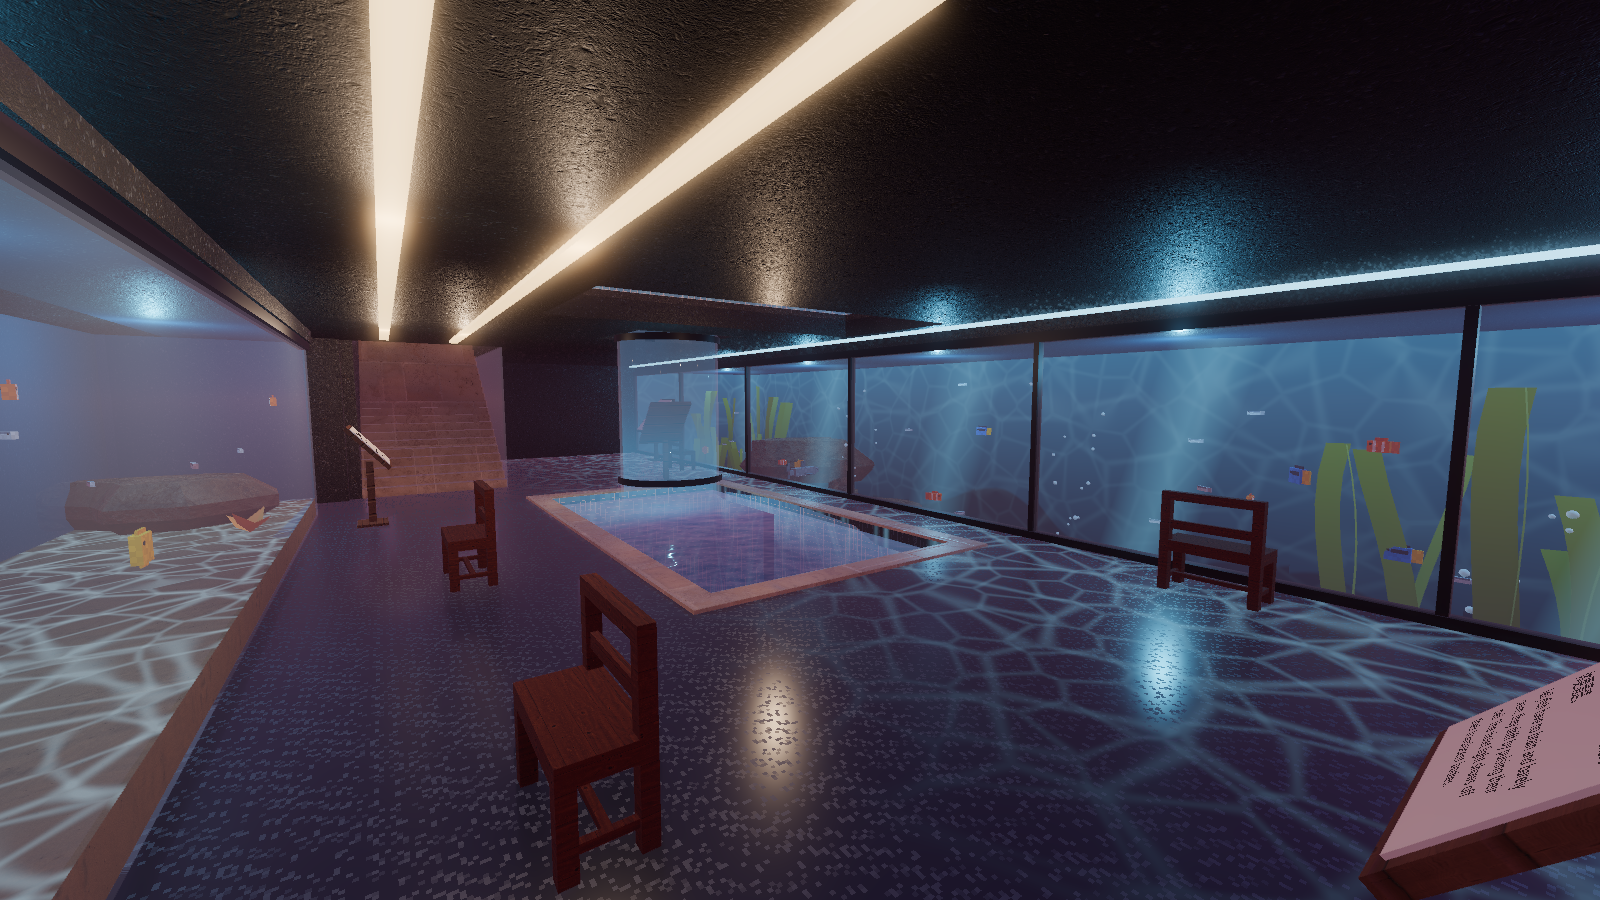
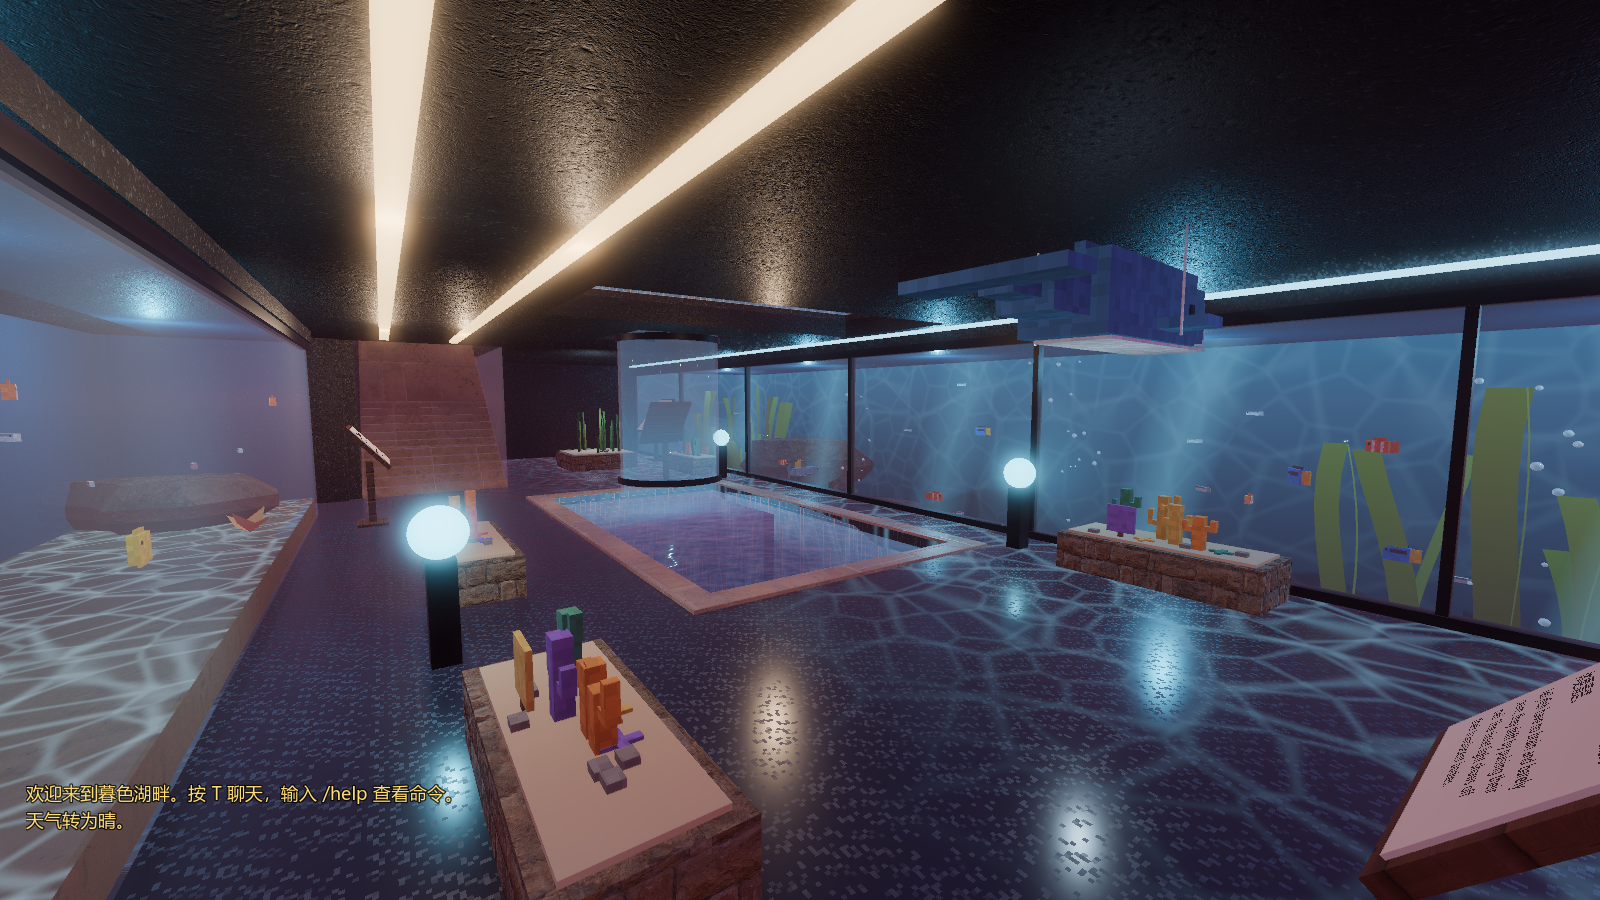
Fix cross-branch details after merging all feature branches
- Alt+Enter toggles fullscreen without opening the chat box (Enter alone
  still opens chat); test added.
- Capture tool hides the chat box before waiting for the frame, so UI-free
  shots no longer show the welcome messages.
- Re-render the m2h_ screenshots on the merged build; README lists all
  feature docs and 63 checks.

diff --git a/README.md b/README.md
@@ -4,7 +4,7 @@
 
 - 引擎：**Godot 4.7.2 Standard**（GDScript，Forward+，Jolt Physics），Windows 单机优先
 - 需求规格：[docs/DEVELOPMENT_SPEC.md](docs/DEVELOPMENT_SPEC.md)（唯一需求来源）；阶段指令：[docs/AGENT_HANDOFF.md](docs/AGENT_HANDOFF.md)
-- 当前进度：**M0、M1、第一轮正式美术、M2 天气系统、方块人物、泳池馆与地下水族馆、小动物、雷暴/彩虹/风、聊天框、小地图、开发者模式、第一人称双手、木屋生活、独木舟与湖上探索、性能优化、可潜水的海洋大缸、木屋国际象棋、动作轮盘、世界地图与全屏已完成**，自动检查 __N__/__N__ 通过。见 [docs/QA_M0_M1.md](docs/QA_M0_M1.md)、[docs/ART_PASS.md](docs/ART_PASS.md)、[docs/M2_WEATHER_CHARACTER.md](docs/M2_WEATHER_CHARACTER.md)、[docs/POOLHOUSE_FAUNA.md](docs/POOLHOUSE_FAUNA.md)、[docs/CHAT.md](docs/CHAT.md)、[docs/MINIMAP_DEVMODE.md](docs/MINIMAP_DEVMODE.md)、[docs/CABIN_LIFE_CANOE.md](docs/CABIN_LIFE_CANOE.md)、[docs/PERFORMANCE.md](docs/PERFORMANCE.md)、[docs/AQUARIUM_DIVE.md](docs/AQUARIUM_DIVE.md)、[docs/CHESS.md](docs/CHESS.md)、[docs/INTERACTIONS_WORLDMAP.md](docs/INTERACTIONS_WORLDMAP.md)
+- 当前进度：**M0、M1、第一轮正式美术、M2 天气系统、方块人物、泳池馆与地下水族馆、小动物、雷暴/彩虹/风、聊天框、小地图、开发者模式、第一人称双手、木屋生活、独木舟与湖上探索、性能优化、可潜水的海洋大缸、木屋国际象棋、动作轮盘、世界地图与全屏已完成**，自动检查 63/63 通过。见 [docs/QA_M0_M1.md](docs/QA_M0_M1.md)、[docs/ART_PASS.md](docs/ART_PASS.md)、[docs/M2_WEATHER_CHARACTER.md](docs/M2_WEATHER_CHARACTER.md)、[docs/POOLHOUSE_FAUNA.md](docs/POOLHOUSE_FAUNA.md)、[docs/CHAT.md](docs/CHAT.md)、[docs/MINIMAP_DEVMODE.md](docs/MINIMAP_DEVMODE.md)、[docs/CABIN_LIFE_CANOE.md](docs/CABIN_LIFE_CANOE.md)、[docs/PERFORMANCE.md](docs/PERFORMANCE.md)、[docs/AQUARIUM_DIVE.md](docs/AQUARIUM_DIVE.md)、[docs/CHESS.md](docs/CHESS.md)、[docs/INTERACTIONS_WORLDMAP.md](docs/INTERACTIONS_WORLDMAP.md)
 
 ![湖岸出生点](docs/screenshots/m1_01_spawn_dusk.png)
 
@@ -150,7 +150,7 @@ pwsh -File devtools/fetch_polyhaven.ps1
 | `scripts/ui/ActionBar.gd` | G 动作轮盘（平时不显示）：休息、挥手、跳舞、鼓掌，F12 拍照（动作本身在 `FirstPersonController.do_emote()` 与 `CharacterModel` 的姿势和手势里） |
 | `scripts/ui/WorldMap.gd`、`scripts/core/WorldRegistry.gd`、`data/worlds/worlds.json` | Tab 世界地图；世界注册表（当前世界与规划中的其他世界，跨世界进入的预留接口） |
 | `data/weather/seasonal_fx.json` | 季节飘落物方案：落叶、花瓣，以及保留的“原版红点”（`legacy_red_motes`） |
-| `tests/TestRunner.tscn` | 自动检查（__N__ 项：QA-01、QA-02、QA-10、天气、人物、泳池馆、游泳、动物、聊天框、小地图、开发者模式、设置、国际象棋、动作轮盘、世界地图等；`DUSK_TEST_ONLY=_test_xxx` 只跑某几项） |
+| `tests/TestRunner.tscn` | 自动检查（63 项：QA-01、QA-02、QA-10、天气、人物、泳池馆、游泳、动物、聊天框、小地图、开发者模式、设置、国际象棋、动作轮盘、世界地图等；`DUSK_TEST_ONLY=_test_xxx` 只跑某几项） |
 | `devtools/CaptureShots.tscn` | 按预设机位截图到 `docs/screenshots/` |
 | `devtools/Benchmark.tscn` | 固定机位测帧率、帧时、绘制调用与显存 |
 | `devtools/fetch_polyhaven.ps1` | 下载 Poly Haven 贴图并核对 md5，写清单 |
@@ -185,7 +185,7 @@ pwsh -File devtools/fetch_polyhaven.ps1
 - **国际象棋**：木屋茶几上的棋盘按 E 打开 2D 对弈，双人同屏或和电脑下（三档难度），3D 棋盘同步、棋局存档
 - **动作轮盘**：G 弹出，席地坐、躺下看天、挥手、跳舞、鼓掌，F12 拍照；水族馆换成珊瑚花坛、玻璃球灯和鲸鱼吊饰
 - **世界地图与全屏**：Tab 世界地图（含其他世界的预留槽位）；F11 全屏；秋天晴天的落叶改成零星几片，原版红点保留为可切换方案；雨下得慢一点、雨丝细一点
-- 自动检查（__N__ 项）、截图与性能测试工具
+- 自动检查（63 项）、截图与性能测试工具
 
 ## 未实现（按里程碑）
 

diff --git a/docs/INTERACTIONS_WORLDMAP.md b/docs/INTERACTIONS_WORLDMAP.md
@@ -88,14 +88,14 @@
 
 ## 自动检查
 
-`godot --headless --path . --fixed-fps 60 res://tests/TestRunner.tscn`：**53 / 53 通过**（含性能优化 PR 的 49 项）。新增 4 项：
+`godot --headless --path . --fixed-fps 60 res://tests/TestRunner.tscn`：**合并进 main 后 63 / 63 通过**（含聊天框、海洋大缸、国际象棋等其他分支的检查）。本次新增 4 项：
 
 | 检查 | 结果 |
 |---|---|
 | 水族馆不放长椅，换成珊瑚花坛、海带花坛与方块鲸鱼 | 水族馆座位 0，珊瑚花坛 4，鲸鱼离地 ≥ 1.95 m |
 | 动作轮盘 | 平时不显示、G 弹出，四个方向选格正确；休息：坐下（眼睛降低 0.72 m）→ 躺下 → 起身；走动起身；躺下放平、视线低、手收起；挥手举手后自动结束并切回第一人称；跳舞持续；鼓掌自动结束；游泳时拒绝 |
 | 晴天落叶零星，原版红点保留 | 秋天晴天 89 个（风 0.18）；切到原版红点 329 个；切回正常 |
-| 全屏与世界地图 | F11 绑定、全屏切换、Tab 打开地图、当前世界暮色湖畔、规划中 2 个且不能进入 |
+| 全屏与世界地图 | F11 绑定、全屏切换、Alt+Enter 切全屏且不误开聊天框、Tab 打开地图、当前世界暮色湖畔、规划中 2 个且不能进入 |
 
 ## 性能（1920×1080，关垂直同步，RTX 5060 Laptop，叠在性能优化 PR 之上）
 
